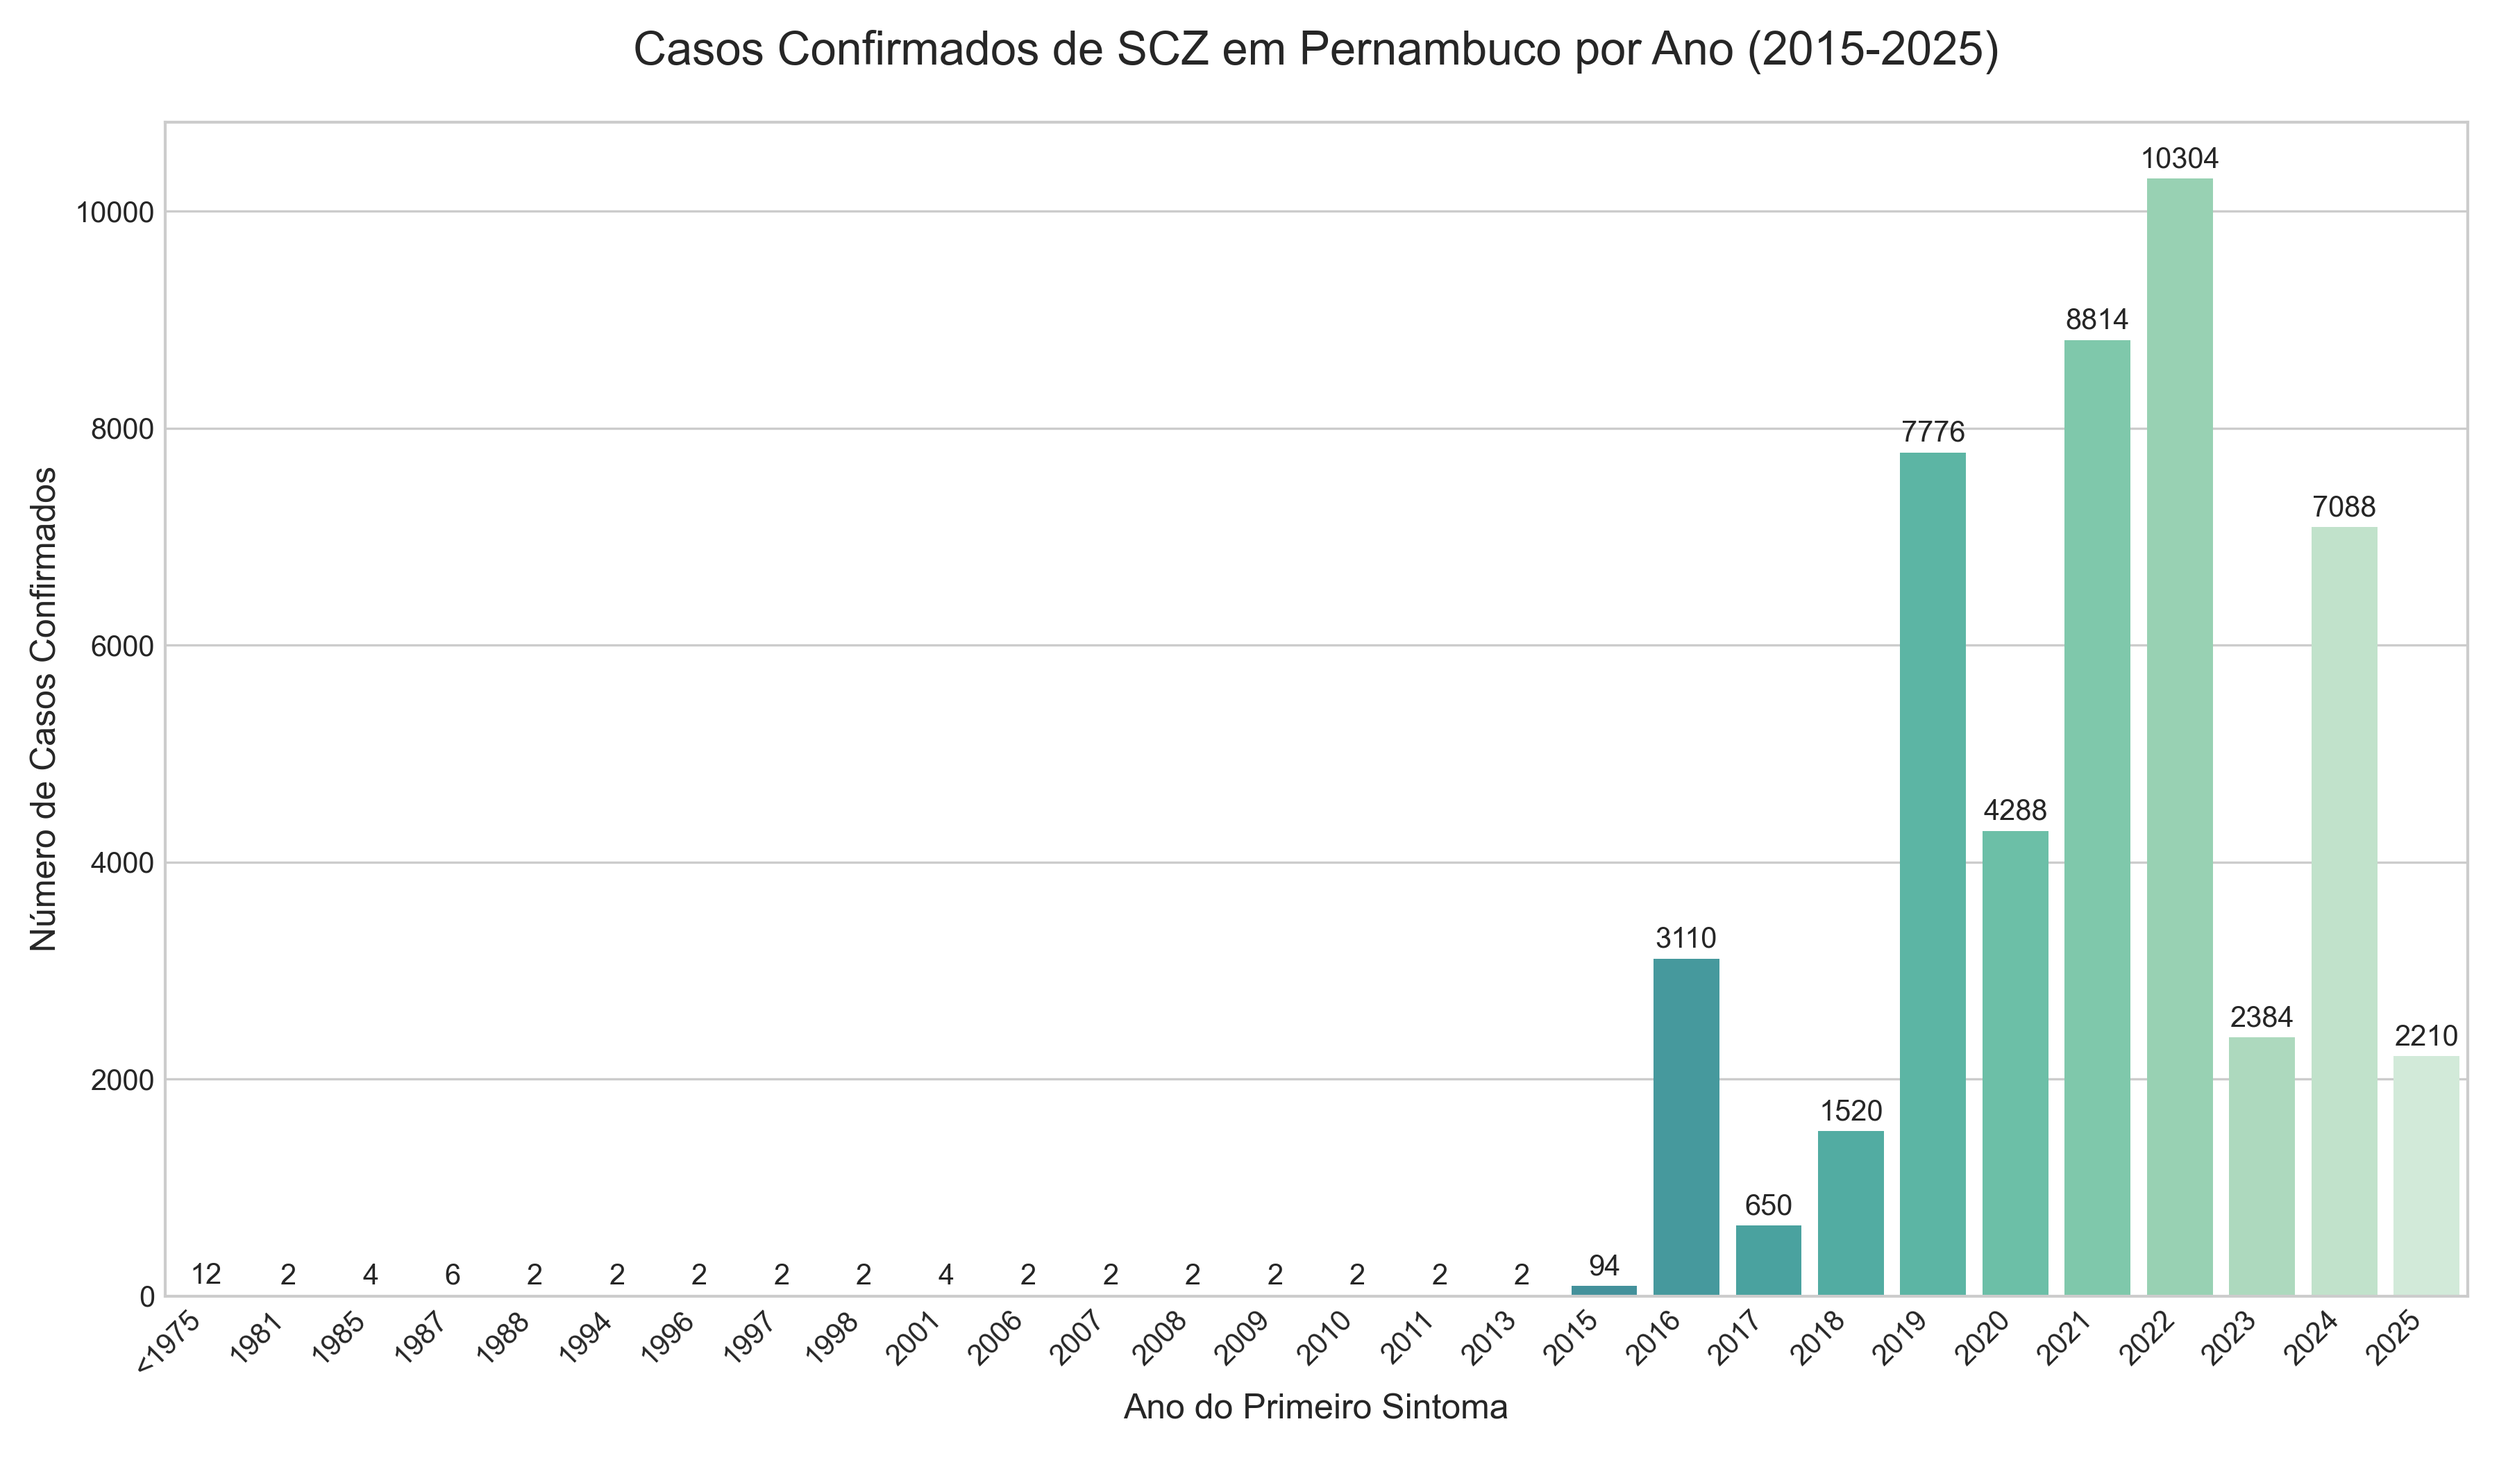
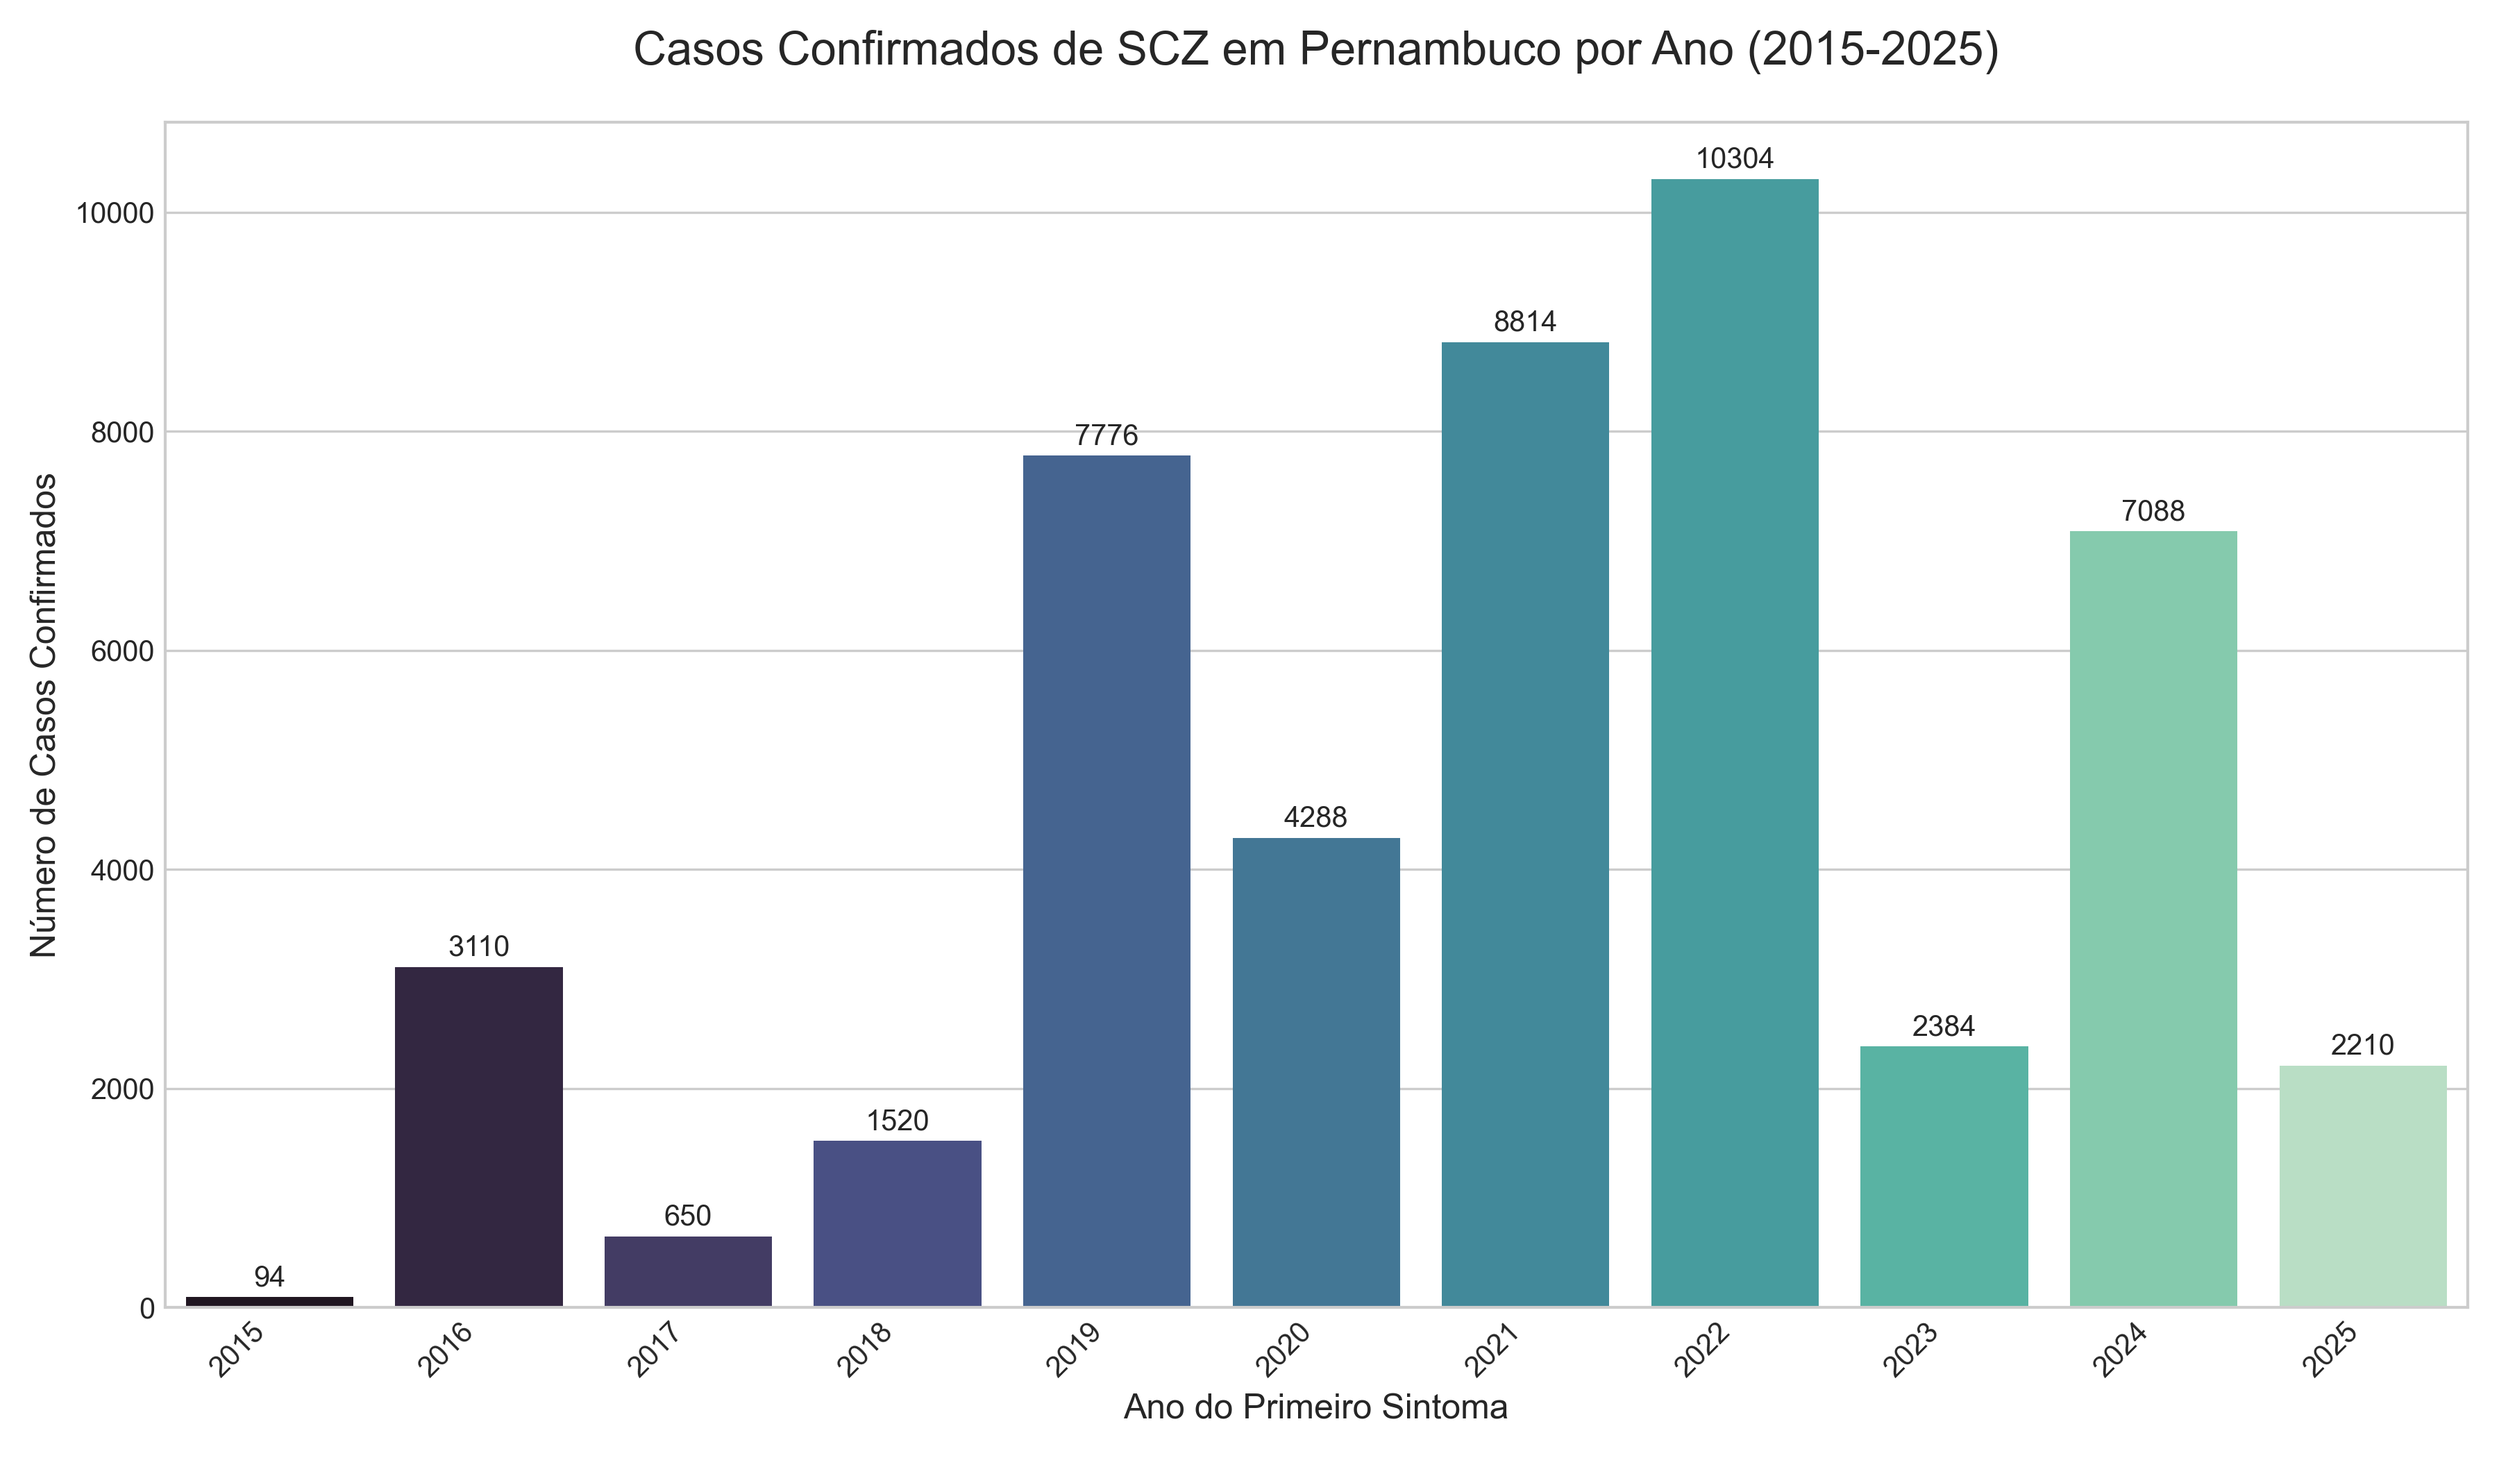
refactor/ cor do mapa e colunas

diff --git a/teste.py b/teste.py
@@ -41,7 +41,16 @@ except Exception as e:
 # PARTE 2: ANÁLISE TEMPORAL (Já funcional)
 # ===================================================================
 print("\nIniciando a análise temporal...")
-casos_por_ano = df[colunas_anos].sum()
+colunas_de_anos = [col for col in df.columns if col.isdigit()]
+
+# 2. Converte essas colunas para tipo numérico
+colunas_de_anos_numericas = pd.to_numeric(colunas_de_anos)
+
+# 3. Seleciona apenas as colunas cujo ano é 2015 ou maior
+anos_para_plotar = [str(ano) for ano in colunas_de_anos_numericas if ano >= 2015]
+
+# 4. Calcula a soma dos casos usando APENAS a lista de anos correta
+casos_por_ano = df[anos_para_plotar].sum()
 
 plt.style.use('seaborn-v0_8-whitegrid')
 plt.figure(figsize=(12, 7))
@@ -74,10 +83,10 @@ try:
     if not mapa_final.empty:
         print("SUCESSO! A junção foi bem-sucedida. Gerando o mapa aprimorado...")
         
-        fig, ax = plt.subplots(1, 1, figsize=(20, 20)) # Aumentei ainda mais o tamanho
+        fig, ax = plt.subplots(1, 1, figsize=(12, 7)) # Aumentei ainda mais o tamanho
         
         mapa_final.plot(
-            column='total_casos', cmap='inferno', linewidth=0.5, 
+            column='total_casos', cmap='Reds', linewidth=0.5, 
             ax=ax, edgecolor='0.8', legend=True,
             legend_kwds={
                 'label': "Total de Casos Confirmados de SCZ (2015-2025)",
@@ -110,7 +119,16 @@ try:
                 color='white', # Cor do texto
                 bbox=dict(facecolor='black', alpha=0.5, boxstyle='round,pad=0.2', edgecolor='none') # Sombra para legibilidade
             )
-        # --- FIM DA NOVA PARTE ---
+        
+        plt.figtext(
+            0.5, # Posição horizontal (0.5 = centro)
+            0.10, # Posição vertical (0.15 = perto da base)
+            f'Nota: Municípios com mais de {ponto_de_corte} casos confirmados estão rotulados.',
+            ha='center', # Alinhamento horizontal do texto
+            fontsize=12,
+            style='italic',
+            bbox=dict(facecolor='white', alpha=0.6, boxstyle='round,pad=0.5', edgecolor='grey')
+        )
 
         plt.savefig('mapa_distribuicao_casos_com_nomes.png', dpi=300, bbox_inches='tight', pad_inches=0.1)
         print("Análise Espacial Concluída. Mapa aprimorado salvo como 'mapa_distribuicao_casos_com_nomes.png'")
